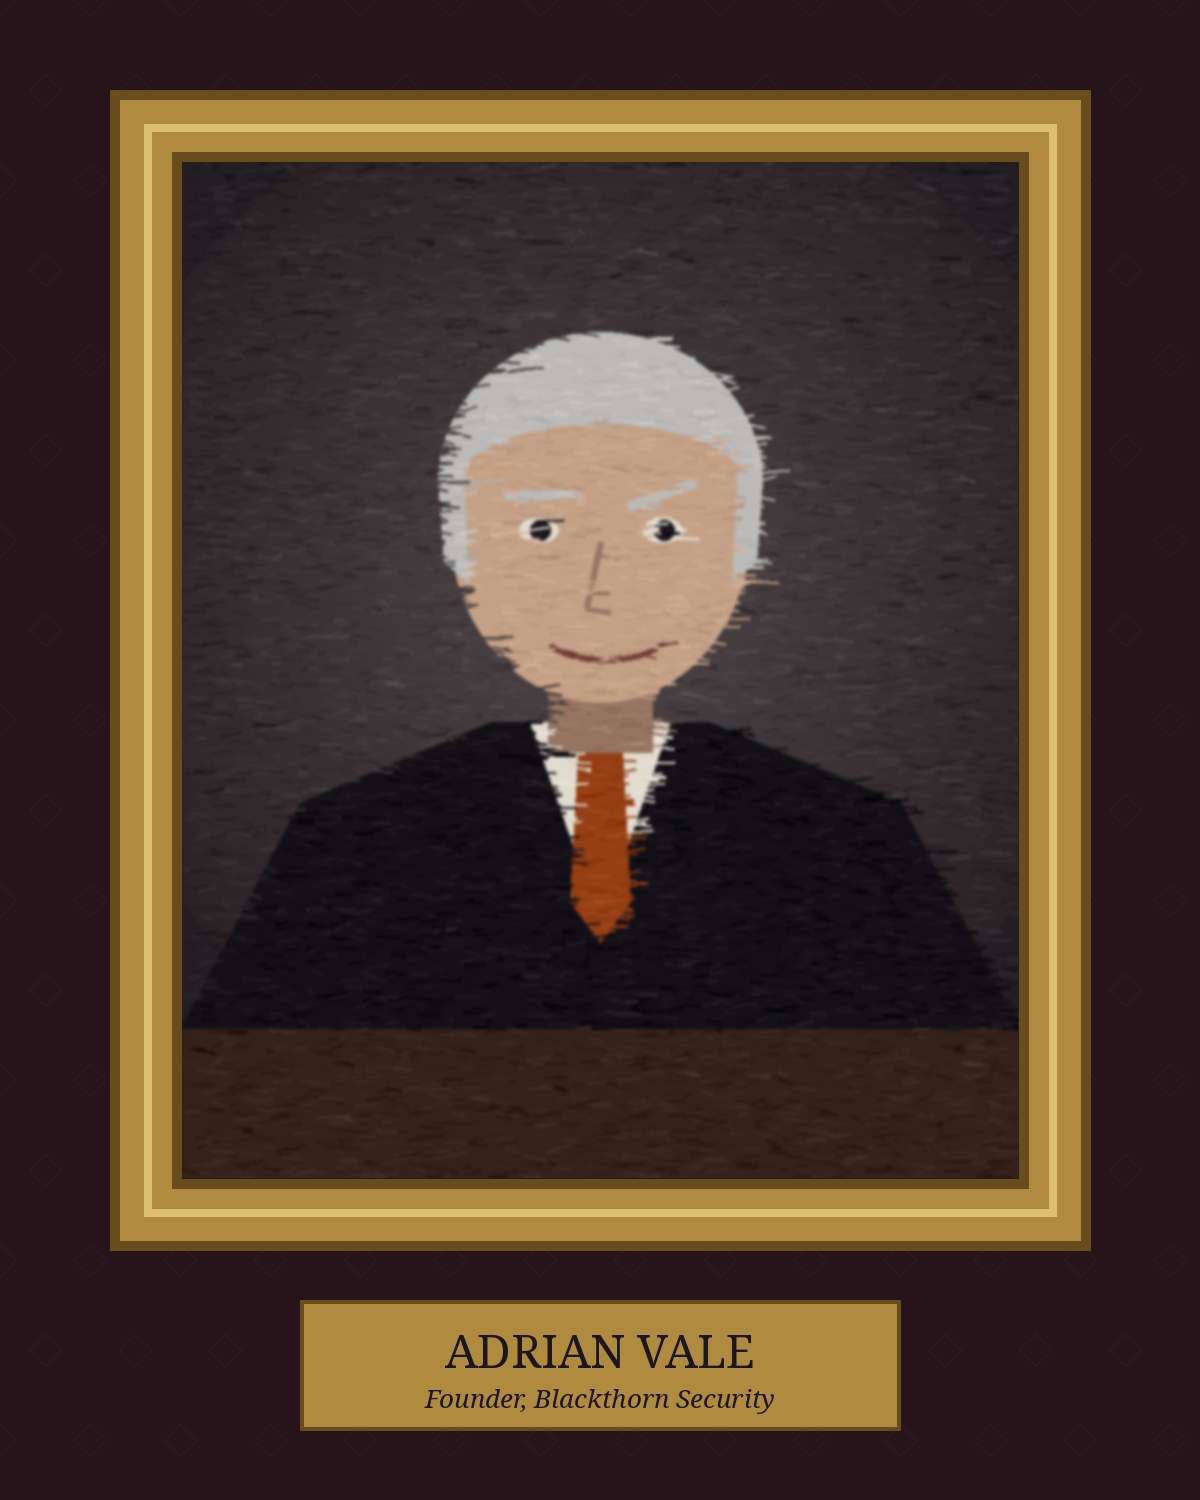
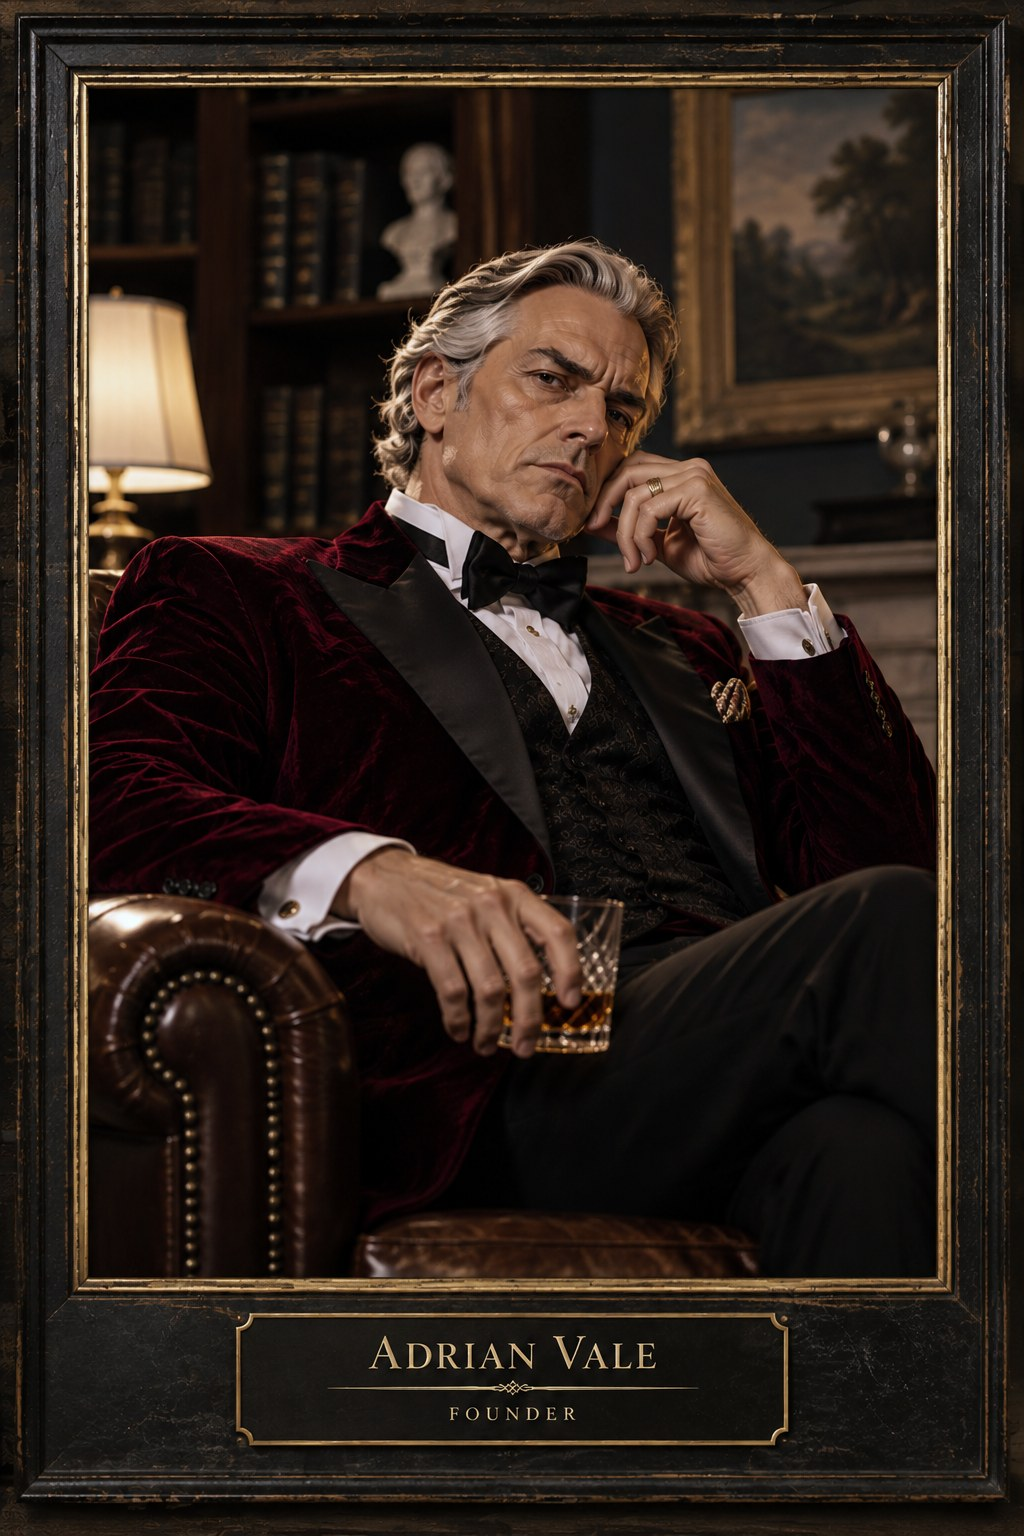
Portrait: replace drawn painting with hand-made image, stamp canon EXIF onto it

diff --git a/challenges/02-portrait/build/make_portrait.py b/challenges/02-portrait/build/make_portrait.py
@@ -1,20 +1,20 @@
 #!/usr/bin/env python3
-"""Generate the hall portrait handed to players in the Portrait in the Hall task.
+"""Stamp the hall portrait handed to players in the Portrait in the Hall task.
 
 Usage: make_portrait.py [output.jpg]
 
-The result is an ordinary JPEG. Its EXIF UserComment holds Adrian's note in plain English.
+Reads the hand-made painting in portrait-source.png, keeps only its pixels, and writes
+it out as an ordinary JPEG. Its EXIF UserComment holds Adrian's note in plain English.
 Only the flag inside the note is encoded as Base64, and the note itself nudges the reader
 toward decoding it.
 
 Values below must stay in sync with canon/canon.md.
 """
 import base64
-import random
 import sys
 from pathlib import Path
 
-from PIL import Image, ImageDraw, ImageFilter, ImageFont
+from PIL import Image
 
 CATALOGUE_NO = "BH-1959-AV"
 DESCRIPTION = f"Adrian Vale, founder. Oil on canvas, digitised for the east hall frame. Catalogue no. {CATALOGUE_NO}"
@@ -45,90 +45,8 @@ The next thing I write is the part worth stealing, so I have put it in a costume
 A.V.
 """
 
-FONT_REGULAR = "/usr/share/fonts/google-noto-vf/NotoSerif[wght].ttf"
-FONT_ITALIC = "/usr/share/fonts/google-noto-vf/NotoSerif-Italic[wght].ttf"
-
-WIDTH, HEIGHT = 1200, 1500
-WALL = (38, 20, 26)
-GILT = (176, 138, 62)
-GILT_DARK = (104, 76, 30)
-GILT_LIGHT = (222, 190, 112)
-CANVAS = (34, 30, 36)
-SUIT = (18, 16, 22)
-SKIN = (196, 160, 134)
-SKIN_SHADE = (150, 116, 98)
-HAIR = (188, 186, 184)
-SHIRT = (226, 220, 208)
-EMBER = (150, 62, 20)
-INK = (28, 22, 30)
-
+SOURCE = Path(__file__).resolve().parent / "portrait-source.png"
 DEFAULT_OUT = Path(__file__).resolve().parent.parent / "portrait.jpg"
-
-
-def font(path, size):
-    try:
-        return ImageFont.truetype(path, size)
-    except OSError:
-        return ImageFont.load_default(size)
-
-
-def paint():
-    rng = random.Random(1959)
-    img = Image.new("RGB", (WIDTH, HEIGHT), WALL)
-    draw = ImageDraw.Draw(img)
-
-    # damask-ish wallpaper
-    for row, y in enumerate(range(0, HEIGHT, 90)):
-        for x in range(45 if row % 2 else 0, WIDTH, 90):
-            draw.regular_polygon((x, y, 16), 4, rotation=45, outline=(52, 28, 36))
-
-    # frame
-    frame = (110, 90, WIDTH - 110, HEIGHT - 250)
-    for inset, colour in ((0, GILT_DARK), (10, GILT), (34, GILT_LIGHT), (42, GILT), (62, GILT_DARK)):
-        draw.rectangle((frame[0] + inset, frame[1] + inset, frame[2] - inset, frame[3] - inset), fill=colour)
-    inner = (frame[0] + 72, frame[1] + 72, frame[2] - 72, frame[3] - 72)
-    draw.rectangle(inner, fill=CANVAS)
-
-    # sitter, painted on a separate layer so the brushwork can be softened
-    layer = Image.new("RGB", (inner[2] - inner[0], inner[3] - inner[1]), CANVAS)
-    art = ImageDraw.Draw(layer)
-    w, h = layer.size
-    cx = w // 2
-    for radius in range(520, 0, -8):  # glow behind the sitter
-        shade = 34 + (520 - radius) // 14
-        art.ellipse((cx - radius, 430 - radius, cx + radius, 430 + radius), fill=(shade + 8, shade, shade + 2))
-    art.rectangle((0, h - 150, w, h), fill=(52, 34, 26))  # desk
-    art.polygon(((cx - 420, h - 150), (cx - 300, 640), (cx - 110, 560), (cx + 110, 560), (cx + 300, 640), (cx + 420, h - 150)), fill=SUIT)
-    art.polygon(((cx - 70, 560), (cx + 70, 560), (cx, 760)), fill=SHIRT)
-    art.polygon(((cx - 22, 590), (cx + 22, 590), (cx + 30, 740), (cx, 780), (cx - 30, 740)), fill=EMBER)
-    art.rectangle((cx - 52, 480, cx + 52, 590), fill=SKIN_SHADE)  # neck
-    art.ellipse((cx - 150, 190, cx + 150, 540), fill=SKIN)  # head
-    art.pieslice((cx - 162, 170, cx + 162, 470), 180, 360, fill=HAIR)
-    art.ellipse((cx - 150, 262, cx + 150, 400), fill=SKIN)
-    art.polygon(((cx - 162, 320), (cx - 138, 300), (cx - 132, 420), (cx - 156, 400)), fill=HAIR)
-    art.polygon(((cx + 162, 320), (cx + 138, 300), (cx + 132, 420), (cx + 156, 400)), fill=HAIR)
-    for side in (-1, 1):
-        ex = cx + side * 62
-        art.line((ex - 34, 338 + side * 6, ex + 34, 326 - side * 6), fill=HAIR, width=10)  # one raised eyebrow
-        art.ellipse((ex - 20, 356, ex + 20, 380), fill=SHIRT)
-        art.ellipse((ex - 8, 358, ex + 12, 378), fill=INK)
-    art.line((cx, 380, cx - 14, 446, cx + 10, 450), fill=SKIN_SHADE, width=6)
-    art.arc((cx - 60, 440, cx + 70, 500), 20, 150, fill=(112, 60, 54), width=6)  # the smirk
-    for _ in range(9000):  # brushwork
-        x, y = rng.randrange(w), rng.randrange(h)
-        r, g, b = layer.getpixel((x, y))
-        d = rng.randint(-14, 14)
-        length = rng.randint(6, 22)
-        art.line((x, y, x + length, y + rng.randint(-4, 4)), fill=(r + d, g + d, b + d), width=3)
-    layer = layer.filter(ImageFilter.GaussianBlur(1.6))
-    img.paste(layer, (inner[0], inner[1]))
-
-    # brass nameplate
-    plate = (WIDTH // 2 - 300, HEIGHT - 200, WIDTH // 2 + 300, HEIGHT - 70)
-    draw.rectangle(plate, fill=GILT, outline=GILT_DARK, width=4)
-    draw.text((WIDTH // 2, plate[1] + 18), "ADRIAN VALE", font=font(FONT_REGULAR, 46), fill=INK, anchor="ma")
-    draw.text((WIDTH // 2, plate[1] + 80), "Founder, Blackthorn Security", font=font(FONT_ITALIC, 26), fill=INK, anchor="ma")
-    return img
 
 
 def comment():
@@ -155,7 +73,9 @@ def exif_block(img):
 def main():
     out = Path(sys.argv[1]) if len(sys.argv) > 1 else DEFAULT_OUT
 
-    portrait = paint()
+    with Image.open(SOURCE) as src:
+        portrait = Image.new("RGB", src.size)  # fresh image: none of the source's metadata comes along
+        portrait.paste(src.convert("RGB"))
     out.parent.mkdir(parents=True, exist_ok=True)
     portrait.save(out, "JPEG", quality=88, exif=exif_block(portrait))
     print(f"wrote {out}")

diff --git a/challenges/02-portrait/organizer/solution.md b/challenges/02-portrait/organizer/solution.md
@@ -78,7 +78,7 @@ The note does not name anyone, and it does not say a counterfeit will already ex
 
 ## Rebuilding
 
-Run this after changing the note, the metadata, or the painting. The build is reproducible: the same sources and Pillow version give a byte-identical file. Keep `canon/canon.md` in sync.
+The painting is a hand-made image kept at `build/portrait-source.png`. The script takes only its pixels, writes them out as a JPEG, and stamps the EXIF above. Run it after changing the note, the metadata, or the source image. The build is reproducible: the same sources and Pillow version give a byte-identical file. Keep `canon/canon.md` in sync.
 
 ```
 python3 -m venv .venv
